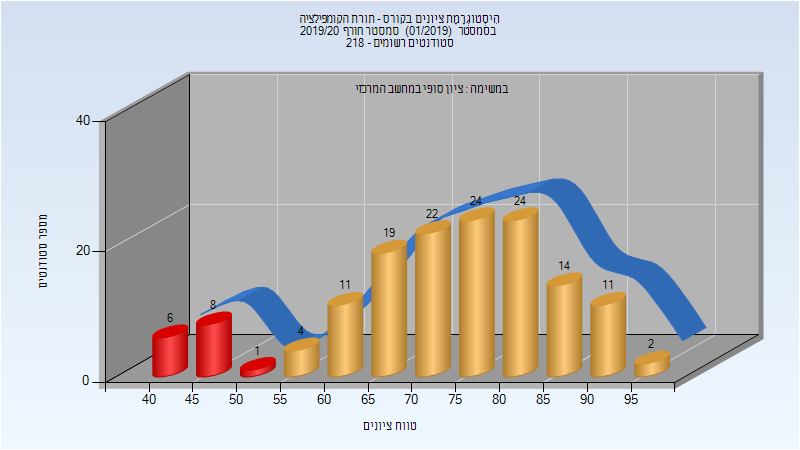
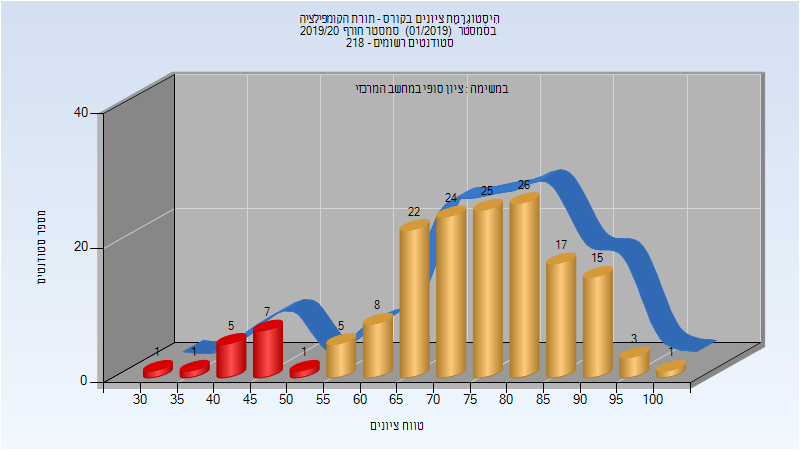
Deploy michael-maltsev/technion-histograms to github.com/michael-maltsev/technion-histograms.git:gh-pages

diff --git a/236360/index.html b/236360/index.html
@@ -297,13 +297,13 @@
 </thead>
 <tbody>
 <tr>
-<td>159</td>
-<td>143/16</td>
-<td>90</td>
-<td>40</td>
-<td>98</td>
-<td>73.199</td>
-<td>75</td>
+<td>174</td>
+<td>158/16</td>
+<td>91</td>
+<td>33</td>
+<td>100</td>
+<td>74.329</td>
+<td>76</td>
 </tr>
 </tbody>
 </table>

diff --git a/114071/index.html b/114071/index.html
@@ -2425,11 +2425,11 @@
 <tbody>
 <tr>
 <td>191</td>
-<td>166/25</td>
+<td>167/24</td>
 <td>87</td>
 <td>17</td>
-<td>117</td>
-<td>74.063</td>
+<td>100</td>
+<td>73.34</td>
 <td>73</td>
 </tr>
 </tbody>

diff --git a/236360/README.md b/236360/README.md
@@ -98,7 +98,7 @@
 
 | סטודנטים | עברו/נכשלו | אחוז עוברים | ציון מינימלי | ציון מקסימלי | ממוצע | חציון |
 | ---- | ---- | ---- | ---- | ---- | ---- | ---- |
-| 159 | 143/16 | 90 | 40 | 98 | 73.199 | 75 |
+| 174 | 158/16 | 91 | 33 | 100 | 74.329 | 76 |
 
 ## אביב 2020
 

diff --git a/114071/README.md b/114071/README.md
@@ -777,7 +777,7 @@
 
 | סטודנטים | עברו/נכשלו | אחוז עוברים | ציון מינימלי | ציון מקסימלי | ממוצע | חציון |
 | ---- | ---- | ---- | ---- | ---- | ---- | ---- |
-| 191 | 166/25 | 87 | 17 | 117 | 74.063 | 73 |
+| 191 | 167/24 | 87 | 17 | 100 | 73.34 | 73 |
 
 ### סופי
 
